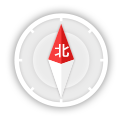
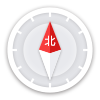
no message

diff --git a/LEMapviewFrameworks/Classes/LEMapView.m b/LEMapviewFrameworks/Classes/LEMapView.m
@@ -58,10 +58,25 @@ typedef NS_ENUM(NSInteger, MapRotationStatus) {
     LEMapCallOutAnnotationView *curCallOutView;
     NSMutableArray *curDataArrays;
     UIButton *reLocate;
+    UIView *scaleView;
     UIImageView *curCompass;
     MapRotationStatus curMapRotationStatus;
     NSTimer *curCheckRotateTimer;
     NSMutableArray *curSearchAnnotationArray;
+}
+-(void) leSetEnableRelocate:(BOOL) enable{
+    [reLocate setHidden:!enable];
+}
+-(void) leSetEnableScale:(BOOL) enable{
+    [scaleView setHidden:!enable];
+}
+-(void) leSetCompassAnchor:(LEAnchors) anchor Offset:(CGPoint) offset Enable:(BOOL) enable{
+    if(enable){
+        [curCompass.leAutoLayoutSettings setLeAnchor:anchor];
+        [curCompass.leAutoLayoutSettings setLeOffset:offset];
+        [curCompass leExecAutoLayout];
+    }
+    [curCompass setHidden:!enable];
 }
 //
 -(void) leSetAppMessageDelegate:(id<LEAppMessageDelegate>) messageDelegate{
@@ -246,7 +261,7 @@ typedef NS_ENUM(NSInteger, MapRotationStatus) {
 
 -(void) initCompass{
     UIImage *img=[[LEMapViewSettings sharedInstance] leCompass];
-    curCompass=[LEUIFramework leGetImageViewWithSettings:[[LEAutoLayoutSettings alloc] initWithSuperView:self Anchor:LEAnchorInsideTopRight Offset:CGPointMake(0, LEStatusBarHeight+LENavigationBarHeight) CGSize:CGSizeMake(50, 50)] Image:img];
+    curCompass=[LEUIFramework leGetImageViewWithSettings:[[LEAutoLayoutSettings alloc] initWithSuperView:self Anchor:LEAnchorInsideTopRight Offset:CGPointMake(0, LEStatusBarHeight) CGSize:img.size] Image:img];
     [curCompass setUserInteractionEnabled:YES];
     [curCompass leAddTapEventWithSEL:@selector(onRotateToNormal) Target:self];
 }
@@ -362,34 +377,27 @@ typedef NS_ENUM(NSInteger, MapRotationStatus) {
     [self checkGPSSettings];
     //
     UIImage *buttonImage=[[LEMapViewSettings sharedInstance] leLocateStatusFollow];
-    reLocate=[[UIButton alloc] initWithAutoLayoutSettings:[[LEAutoLayoutSettings alloc] initWithSuperView:self Anchor:LEAnchorInsideBottomLeft Offset:CGPointMake(7, -LENavigationBarHeight/2) CGSize:CGSizeMake(50, 50)]];
+    reLocate=[[UIButton alloc] initWithAutoLayoutSettings:[[LEAutoLayoutSettings alloc] initWithSuperView:self Anchor:LEAnchorInsideBottomLeft Offset:CGPointMake(LELayoutSideSpace, -LEStatusBarHeight) CGSize:buttonImage.size]];
     [self addSubview:reLocate];
     [reLocate addTarget:self action:@selector(onRotateSwitch) forControlEvents:UIControlEventTouchUpInside];
     [reLocate setImage:buttonImage forState:UIControlStateNormal];
     
-    UIImage *imgScale=[[LEMapViewSettings sharedInstance] leScaleBackground];
-    UIImageView *scaleView=[[UIImageView alloc] initWithFrame:CGRectMake(self.bounds.size.width-imgScale.size.width-7, reLocate.frame.origin.y+reLocate.frame.size.height-imgScale.size.height+3, 94/2,150/2)];
-    [scaleView setUserInteractionEnabled:YES];
-    [scaleView setImage:imgScale];
-    [self addSubview:scaleView];
     UIImage *imgScaleUp=[[LEMapViewSettings sharedInstance] leScaleUp];
     UIImage *imgScaleUp2=[[LEMapViewSettings sharedInstance] leScaleUpHighlighted];
     UIImage *imgScaleDown=[[LEMapViewSettings sharedInstance] leScaleDown];
     UIImage *imgScaleDown2=[[LEMapViewSettings sharedInstance] leScaleDownHighlighted];
-    UIButton *sizeUp=[[UIButton alloc]initWithFrame:CGRectMake(0, 0, 94/2, 150/2/2)];
-    UIButton *sizeDown=[[UIButton alloc]initWithFrame:CGRectMake(0, 150/2/2, 94/2, 150/2/2)];
-    [scaleView addSubview:sizeUp];
-    [scaleView addSubview:sizeDown];
-    [sizeUp setImage:imgScaleUp forState:UIControlStateNormal];
-    [sizeUp setImage:imgScaleUp2 forState:UIControlStateHighlighted];
-    [sizeDown setImage:imgScaleDown forState:UIControlStateNormal];
-    [sizeDown setImage:imgScaleDown2 forState:UIControlStateHighlighted];
+    int scaleW=imgScaleUp.size.width;
+    int scaleH=imgScaleUp.size.height+imgScaleDown.size.height;
+    scaleView=[[UIView alloc] initWithAutoLayoutSettings:[[LEAutoLayoutSettings alloc] initWithSuperView:self Anchor:LEAnchorInsideBottomRight Offset:CGPointMake(-LELayoutSideSpace, -LEStatusBarHeight) CGSize:CGSizeMake(scaleW, scaleH)]];
+    UIButton *sizeUp=[[UIButton alloc]initWithAutoLayoutSettings:[[LEAutoLayoutSettings alloc] initWithSuperView:scaleView Anchor:LEAnchorInsideTopCenter Offset:CGPointZero CGSize:imgScaleUp.size]];
+    UIButton *sizeDown=[[UIButton alloc]initWithAutoLayoutSettings:[[LEAutoLayoutSettings alloc] initWithSuperView:scaleView Anchor:LEAnchorInsideBottomCenter Offset:CGPointZero CGSize:imgScaleDown.size]];
+    [sizeUp setBackgroundImage:imgScaleUp forState:UIControlStateNormal];
+    [sizeUp setBackgroundImage:imgScaleUp2 forState:UIControlStateHighlighted];
+    [sizeDown setBackgroundImage:imgScaleDown forState:UIControlStateNormal];
+    [sizeDown setBackgroundImage:imgScaleDown2 forState:UIControlStateHighlighted];
     [sizeUp addTarget:self action:@selector(onSizeDownMap) forControlEvents:UIControlEventTouchUpInside];
     [sizeDown addTarget:self action:@selector(onSizeUpMap) forControlEvents:UIControlEventTouchUpInside];
-    [sizeUp setImageEdgeInsets:UIEdgeInsetsMake(6, 0, 0, 0)];
-    [sizeDown setImageEdgeInsets:UIEdgeInsetsMake(-6, 0, 0, 0)];
-    //
-    
+    // 
 }
 
 -(void) checkGPSSettings{
@@ -513,19 +521,19 @@ typedef NS_ENUM(NSInteger, MapRotationStatus) {
     [self onCheckAnnotationAngle];
 }
 -(void) mapView:(MAMapView *)mapView didSelectAnnotationView:(MAAnnotationView *)view{
-    if([view isKindOfClass:[LEMapViewAnnotationView class]]){
-        //add
-        LEMapViewAnnotation *an=(LEMapViewAnnotation *) view.annotation;
-        [self leRemoveCalloutView];
-        LEMapCallOutViewAnnotation *anno=[[LEMapCallOutViewAnnotation alloc] initWithCoordinate:an.coordinate Index:an.leIndex AnnotationIcon:self.curAnnotationIcon CallOutBackground:self.curCallOutBackground  Data:[curDataArrays objectAtIndex:an.leIndex] UserCoordinate:mapView.userLocation.coordinate];
-        [mapView addAnnotation:anno];
-        [curMapView setCenterCoordinate:anno.coordinate animated:YES];
-    }else{
-        [self leOnOverwriteMapView:mapView didSelectAnnotationView:view];
+    if(![self leOnOverwriteMapView:mapView didSelectAnnotationView:view]){
+        if([view isKindOfClass:[LEMapViewAnnotationView class]]){
+            //add
+            LEMapViewAnnotation *an=(LEMapViewAnnotation *) view.annotation;
+            [self leRemoveCalloutView];
+            LEMapCallOutViewAnnotation *anno=[[LEMapCallOutViewAnnotation alloc] initWithCoordinate:an.coordinate Index:an.leIndex AnnotationIcon:self.curAnnotationIcon CallOutBackground:self.curCallOutBackground  Data:[curDataArrays objectAtIndex:an.leIndex] UserCoordinate:mapView.userLocation.coordinate];
+            [mapView addAnnotation:anno];
+            [curMapView setCenterCoordinate:anno.coordinate animated:YES];
+        }
     }
 }
--(void) leOnOverwriteMapView:(MAMapView *)mapView didSelectAnnotationView:(MAAnnotationView *)view{
-    
+-(BOOL) leOnOverwriteMapView:(MAMapView *)mapView didSelectAnnotationView:(MAAnnotationView *)view{
+    return NO;
 }
 -(void) leRemoveCalloutView{
     if(curCallOutView&&curCallOutView.annotation){
@@ -570,6 +578,9 @@ typedef NS_ENUM(NSInteger, MapRotationStatus) {
     
 }
 -(void) mapView:(MAMapView *)mapView didDeselectAnnotationView:(MAAnnotationView *)view{
+    [self leOnOverwriteMapView:mapView didDeselectAnnotationView:view];
+}
+-(void) leOnOverwriteMapView:(MAMapView *)mapView didDeselectAnnotationView:(MAAnnotationView *)view{
     if(curCallOutView&&curCallOutView.annotation){
         [mapView removeAnnotations:@[curCallOutView.annotation]];
         curCallOutView=nil;

diff --git a/LEMapviewFrameworks/Classes/LEMapViewSettings.m b/LEMapviewFrameworks/Classes/LEMapViewSettings.m
@@ -14,7 +14,6 @@
 @property (nonatomic, readwrite) UIImage *leLocateStatusNormal;
 @property (nonatomic, readwrite) UIImage *leLocateStatusRotate;
 @property (nonatomic, readwrite) UIImage *leLocateStatusFollow;
-@property (nonatomic, readwrite) UIImage *leScaleBackground;
 @property (nonatomic, readwrite) UIImage *leScaleUp;
 @property (nonatomic, readwrite) UIImage *leScaleUpHighlighted;
 @property (nonatomic, readwrite) UIImage *leScaleDown;
@@ -31,8 +30,7 @@ LESingleton_implementation(LEMapViewSettings);
     self.leCompass              =[self leGetImageWithName:@"map_compass"];
     self.leLocateStatusNormal   =[self leGetImageWithName:@"map_btn_status"];
     self.leLocateStatusRotate   =[self leGetImageWithName:@"map_btn_status2"];
-    self.leLocateStatusFollow   =[self leGetImageWithName:@"map_btn_status3"];
-    self.leScaleBackground      =[self leGetImageWithName:@"mapScaleBG"];
+    self.leLocateStatusFollow   =[self leGetImageWithName:@"map_btn_status3"]; 
     self.leScaleUp              =[self leGetImageWithName:@"mapScaleUp"];
     self.leScaleDown            =[self leGetImageWithName:@"mapScaleDown"];
     self.leScaleUpHighlighted   =[self leGetImageWithName:@"mapScaleUp2"];

diff --git a/LEMapviewFrameworks/Classes/LEMapView.h b/LEMapviewFrameworks/Classes/LEMapView.h
@@ -28,6 +28,18 @@
 
 @interface LEMapView : UIView<MAMapViewDelegate>
 /**
+ * @brief 自定义定位按钮开启关闭
+ */
+-(void) leSetEnableRelocate:(BOOL) enable;
+/**
+ * @brief 自定义缩放按钮开启关闭
+ */
+-(void) leSetEnableScale:(BOOL) enable;
+/**
+ * @brief 自定义罗盘位置及开启关闭
+ */
+-(void) leSetCompassAnchor:(LEAnchors) anchor Offset:(CGPoint) offset Enable:(BOOL) enable;
+/**
  * @brief 自定义提示信息回调
  */
 -(void) leSetAppMessageDelegate:(id<LEAppMessageDelegate>) messageDelegate;
@@ -128,7 +140,11 @@
 /**
  * @brief 地图地点点击事件（可重写）
  */
--(void) leOnOverwriteMapView:(MAMapView *)mapView didSelectAnnotationView:(MAAnnotationView *)view;
+-(BOOL) leOnOverwriteMapView:(MAMapView *)mapView didSelectAnnotationView:(MAAnnotationView *)view;
+/**
+ * @brief 地图地点点击事件（可重写）
+ */
+-(void) leOnOverwriteMapView:(MAMapView *)mapView didDeselectAnnotationView:(MAAnnotationView *)view;
 /**
  * @brief 删除Callout
  */

diff --git a/LEMapviewFrameworks/Classes/LEMapViewSettings.h b/LEMapviewFrameworks/Classes/LEMapViewSettings.h
@@ -14,8 +14,7 @@ LESingleton_interface(LEMapViewSettings);
 @property (nonatomic, readonly) UIImage *leCompass;
 @property (nonatomic, readonly) UIImage *leLocateStatusNormal;
 @property (nonatomic, readonly) UIImage *leLocateStatusRotate;
-@property (nonatomic, readonly) UIImage *leLocateStatusFollow;
-@property (nonatomic, readonly) UIImage *leScaleBackground;
+@property (nonatomic, readonly) UIImage *leLocateStatusFollow; 
 @property (nonatomic, readonly) UIImage *leScaleUp;
 @property (nonatomic, readonly) UIImage *leScaleUpHighlighted;
 @property (nonatomic, readonly) UIImage *leScaleDown;

diff --git a/LEMapviewFrameworks/Classes/LEMapBaseAnnotationView.m b/LEMapviewFrameworks/Classes/LEMapBaseAnnotationView.m
@@ -20,7 +20,7 @@
     return self;
 } 
 -(NSDictionary *) leGetMapData{
-    return self.leGetMapData;
+    return self.leMapData;
 }
 -(void) leSetMapData:(NSDictionary *) data{
     self.leMapData=data;
